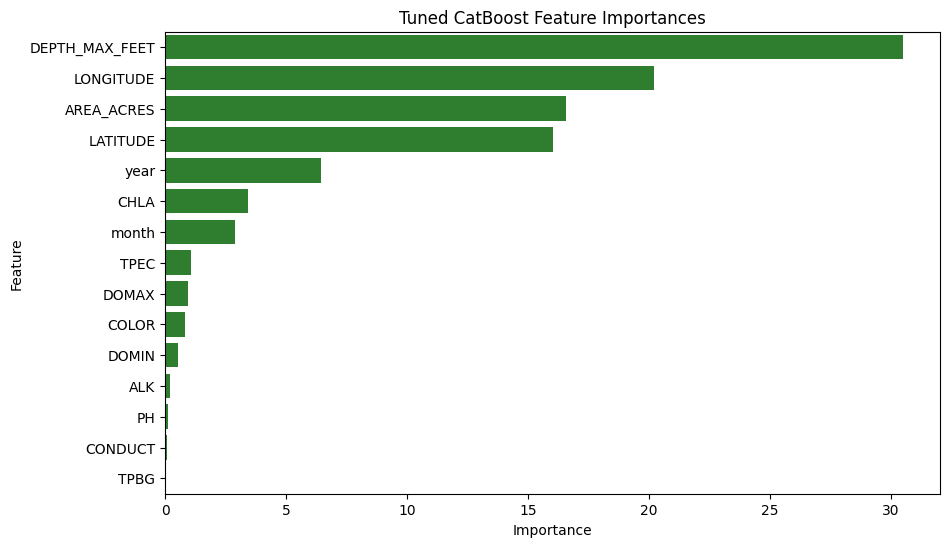
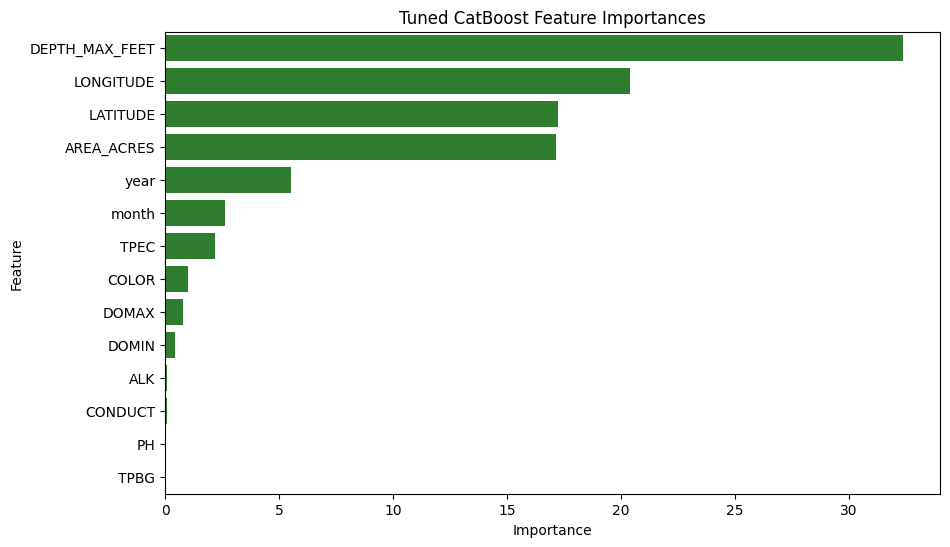
Exclude CHLA & enable multithreading for CatBoost

diff --git a/experiments/scripts/33_catboost_chemical.py b/experiments/scripts/33_catboost_chemical.py
@@ -47,7 +47,7 @@ def main():
     df["month"] = df["SAMPDATE"].dt.month
     base_features = ["year", "month"] + num_cols
 
-    chem_features = ["DOMAX", "DOMIN", "TPEC", "TPBG", "CHLA", "PH", "COLOR", "CONDUCT", "ALK"]
+    chem_features = ["DOMAX", "DOMIN", "TPEC", "TPBG", "PH", "COLOR", "CONDUCT", "ALK"]
     valid_chems = [c for c in chem_features if c in df.columns]
 
     subset_cols = [target, "SAMPDATE", "MIDAS"] + num_cols
@@ -80,7 +80,7 @@ def main():
         loss_function="RMSE",
         verbose=False,
         allow_writing_files=False,
-        thread_count=1,
+        thread_count=-1,
     )
     model.fit(X_train, y_train)
 
@@ -127,7 +127,7 @@ def main():
                 loss_function="RMSE",
                 verbose=False,
                 allow_writing_files=False,
-                thread_count=1,
+                thread_count=-1,
             )
             cat_lolo.fit(train_lake_df[features], train_lake_df[target])
 
@@ -165,10 +165,10 @@ def main():
     sections = [
         (
             "What We Did (Methodology)",
-            "Following Experiments 20 and 21, we deployed **CatBoost** on the identical chemistry-enriched setup. "
+            "We deployed **CatBoost** on the same chemistry set used in the later non-CHLA experiments. "
             "Like the other boosted-tree baselines, CatBoost can retain rows with missing chemistry instead of forcing "
             "global imputation or row deletion. This lets us preserve the same broad geographic-temporal training base "
-            "while still testing whether chemistry helps when present.\n\n"
+            "while still testing whether chemistry helps when present, while explicitly excluding `CHLA`.\n\n"
             f"We loaded the baseline geographic limits and the chemical subset: `{valid_chems}`. By preserving native missingness, "
             f"CatBoost trained on **{len(model_df):,}** usable rows."
         ),

diff --git a/experiments/scripts/34_catboost_tuned.py b/experiments/scripts/34_catboost_tuned.py
@@ -48,7 +48,7 @@ def main():
     df["year"] = df["SAMPDATE"].dt.year
     df["month"] = df["SAMPDATE"].dt.month
     base_features = ["year", "month"] + num_cols
-    chem_features = ["DOMAX", "DOMIN", "TPEC", "TPBG", "CHLA", "PH", "COLOR", "CONDUCT", "ALK"]
+    chem_features = ["DOMAX", "DOMIN", "TPEC", "TPBG", "PH", "COLOR", "CONDUCT", "ALK"]
     valid_chems = [c for c in chem_features if c in df.columns]
 
     subset_cols = [target, "SAMPDATE", "MIDAS"] + num_cols
@@ -98,7 +98,7 @@ def main():
             "eval_metric": "RMSE",
             "verbose": False,
             "allow_writing_files": False,
-            "thread_count": 1,
+            "thread_count": -1,
         }
         model = CatBoostRegressor(**params)
         model.fit(X_tune_train, y_tune_train)
@@ -130,7 +130,7 @@ def main():
         "eval_metric": "RMSE",
         "verbose": False,
         "allow_writing_files": False,
-        "thread_count": 1,
+        "thread_count": -1,
     }
 
     print("\nRefitting tuned CatBoost on the full chronological training window...")
@@ -162,13 +162,13 @@ def main():
     sections = [
         (
             'What We Did (Methodology)',
-            'We kept the same native-missingness CatBoost setup introduced in Experiment 33, but added a chronological hyperparameter search inside the training window. '
+            'We kept the same native-missingness CatBoost setup introduced in Experiment 33, but excluded CHLA from the chemistry inputs before tuning because it provides an overly direct proxy for water clarity. We then added a chronological hyperparameter search inside the training window. '
             'The first 80% of rows remained the outer training slice and the latest 20% remained the untouched test slice. '
             'Inside the outer training slice, we used an 80/20 inner chronological split for tuning so parameter selection did not use the final test period.'
         ),
         (
             'Hyperparameter Search Setup',
-            f"Feature set: {features}\n\n"
+            f"Feature set (CHLA excluded): {features}\n\n"
             'Search grid: '
             f"iterations={param_grid['iterations']}, depth={param_grid['depth']}, learning_rate={param_grid['learning_rate']}, l2_leaf_reg={param_grid['l2_leaf_reg']}\n\n"
             f"Total combinations evaluated: {len(combos)}\n\n"

diff --git a/reports/34_catboost_tuned.md b/reports/34_catboost_tuned.md
@@ -2,64 +2,63 @@
 
 ## What We Did (Methodology)
 
-We kept the same native-missingness CatBoost setup introduced in Experiment 33, but added a chronological hyperparameter search inside the training window. The first 80% of rows remained the outer training slice and the latest 20% remained the untouched test slice. Inside the outer training slice, we used an 80/20 inner chronological split for tuning so parameter selection did not use the final test period.
+We kept the same native-missingness CatBoost setup introduced in Experiment 33, but excluded CHLA from the chemistry inputs before tuning because it provides an overly direct proxy for water clarity. We then added a chronological hyperparameter search inside the training window. The first 80% of rows remained the outer training slice and the latest 20% remained the untouched test slice. Inside the outer training slice, we used an 80/20 inner chronological split for tuning so parameter selection did not use the final test period.
 
 ## Hyperparameter Search Setup
 
-Feature set: ['year', 'month', 'LATITUDE', 'LONGITUDE', 'AREA_ACRES', 'DEPTH_MAX_FEET', 'DOMAX', 'DOMIN', 'TPEC', 'TPBG', 'CHLA', 'PH', 'COLOR', 'CONDUCT', 'ALK']
+Feature set (CHLA excluded): ['year', 'month', 'LATITUDE', 'LONGITUDE', 'AREA_ACRES', 'DEPTH_MAX_FEET', 'DOMAX', 'DOMIN', 'TPEC', 'TPBG', 'PH', 'COLOR', 'CONDUCT', 'ALK']
 
 Search grid: iterations=[200, 400, 700], depth=[6, 8, 10], learning_rate=[0.03, 0.05, 0.1], l2_leaf_reg=[3, 7, 11]
 
 Total combinations evaluated: 81
 
-Best configuration: {'iterations': 700, 'depth': 10, 'learning_rate': 0.1, 'l2_leaf_reg': 3, 'random_seed': 42, 'loss_function': 'RMSE', 'eval_metric': 'RMSE', 'verbose': False, 'allow_writing_files': False, 'thread_count': 1}
+Best configuration: {'iterations': 700, 'depth': 10, 'learning_rate': 0.05, 'l2_leaf_reg': 3, 'random_seed': 42, 'loss_function': 'RMSE', 'eval_metric': 'RMSE', 'verbose': False, 'allow_writing_files': False, 'thread_count': -1}
 
 ## Chronological Test Results
 
-- **R-Squared (R²):** 0.7410
-- **Mean Absolute Error (MAE):** 0.7918 meters
-- **Root Mean Squared Error (RMSE):** 1.0727 meters
-- **Normalized MAE:** 0.0189
-- **Normalized RMSE:** 0.0281
+- **R-Squared (R²):** 0.7324
+- **Mean Absolute Error (MAE):** 0.8122 meters
+- **Root Mean Squared Error (RMSE):** 1.0903 meters
+- **Normalized MAE:** 0.0194
+- **Normalized RMSE:** 0.0289
 
 ## Search Summary
 
 | iterations | depth | learning_rate | l2_leaf_reg | random_seed | loss_function | eval_metric | verbose | allow_writing_files | thread_count | val_R2 | val_MAE | val_RMSE | val_MAE_Norm |
 | --- | --- | --- | --- | --- | --- | --- | --- | --- | --- | --- | --- | --- | --- |
-| 700 | 10 | 0.1 | 3 | 42 | RMSE | RMSE | False | False | 1 | 0.782 | 0.721 | 0.969 | 0.017 |
-| 400 | 10 | 0.1 | 3 | 42 | RMSE | RMSE | False | False | 1 | 0.782 | 0.724 | 0.97 | 0.017 |
-| 700 | 10 | 0.1 | 11 | 42 | RMSE | RMSE | False | False | 1 | 0.781 | 0.724 | 0.973 | 0.017 |
-| 700 | 10 | 0.1 | 7 | 42 | RMSE | RMSE | False | False | 1 | 0.781 | 0.724 | 0.973 | 0.017 |
-| 700 | 10 | 0.05 | 3 | 42 | RMSE | RMSE | False | False | 1 | 0.78 | 0.727 | 0.974 | 0.017 |
-| 400 | 10 | 0.1 | 11 | 42 | RMSE | RMSE | False | False | 1 | 0.78 | 0.729 | 0.975 | 0.017 |
-| 400 | 10 | 0.1 | 7 | 42 | RMSE | RMSE | False | False | 1 | 0.779 | 0.73 | 0.976 | 0.017 |
-| 700 | 10 | 0.05 | 11 | 42 | RMSE | RMSE | False | False | 1 | 0.779 | 0.732 | 0.977 | 0.017 |
-| 700 | 10 | 0.05 | 7 | 42 | RMSE | RMSE | False | False | 1 | 0.778 | 0.732 | 0.98 | 0.017 |
-| 700 | 8 | 0.1 | 7 | 42 | RMSE | RMSE | False | False | 1 | 0.776 | 0.734 | 0.982 | 0.017 |
-| 700 | 8 | 0.1 | 11 | 42 | RMSE | RMSE | False | False | 1 | 0.775 | 0.736 | 0.986 | 0.017 |
-| 700 | 8 | 0.1 | 3 | 42 | RMSE | RMSE | False | False | 1 | 0.775 | 0.734 | 0.986 | 0.017 |
-| 200 | 10 | 0.1 | 3 | 42 | RMSE | RMSE | False | False | 1 | 0.775 | 0.742 | 0.986 | 0.017 |
-| 400 | 10 | 0.05 | 3 | 42 | RMSE | RMSE | False | False | 1 | 0.774 | 0.743 | 0.988 | 0.017 |
-| 400 | 8 | 0.1 | 7 | 42 | RMSE | RMSE | False | False | 1 | 0.774 | 0.745 | 0.989 | 0.018 |
+| 700 | 10 | 0.05 | 3 | 42 | RMSE | RMSE | False | False | -1 | 0.773 | 0.744 | 0.991 | 0.017 |
+| 700 | 10 | 0.05 | 7 | 42 | RMSE | RMSE | False | False | -1 | 0.771 | 0.746 | 0.994 | 0.018 |
+| 700 | 10 | 0.1 | 11 | 42 | RMSE | RMSE | False | False | -1 | 0.771 | 0.744 | 0.994 | 0.017 |
+| 400 | 10 | 0.1 | 11 | 42 | RMSE | RMSE | False | False | -1 | 0.77 | 0.747 | 0.996 | 0.018 |
+| 700 | 8 | 0.1 | 3 | 42 | RMSE | RMSE | False | False | -1 | 0.768 | 0.75 | 1.0 | 0.018 |
+| 700 | 10 | 0.05 | 11 | 42 | RMSE | RMSE | False | False | -1 | 0.768 | 0.75 | 1.0 | 0.018 |
+| 400 | 10 | 0.1 | 3 | 42 | RMSE | RMSE | False | False | -1 | 0.768 | 0.748 | 1.0 | 0.018 |
+| 700 | 10 | 0.1 | 7 | 42 | RMSE | RMSE | False | False | -1 | 0.768 | 0.745 | 1.0 | 0.017 |
+| 400 | 10 | 0.1 | 7 | 42 | RMSE | RMSE | False | False | -1 | 0.768 | 0.75 | 1.001 | 0.018 |
+| 400 | 10 | 0.05 | 3 | 42 | RMSE | RMSE | False | False | -1 | 0.767 | 0.758 | 1.003 | 0.018 |
+| 700 | 10 | 0.1 | 3 | 42 | RMSE | RMSE | False | False | -1 | 0.766 | 0.747 | 1.004 | 0.017 |
+| 700 | 8 | 0.1 | 7 | 42 | RMSE | RMSE | False | False | -1 | 0.766 | 0.751 | 1.005 | 0.018 |
+| 400 | 10 | 0.05 | 7 | 42 | RMSE | RMSE | False | False | -1 | 0.766 | 0.761 | 1.006 | 0.018 |
+| 700 | 8 | 0.1 | 11 | 42 | RMSE | RMSE | False | False | -1 | 0.765 | 0.755 | 1.008 | 0.018 |
+| 400 | 8 | 0.1 | 3 | 42 | RMSE | RMSE | False | False | -1 | 0.764 | 0.761 | 1.009 | 0.018 |
 
 ![CatBoost Tuning Search](34_catboost_tuning_search.png)
 
 | Feature | Importance |
 | --- | --- |
-| DEPTH_MAX_FEET | 30.514 |
-| LONGITUDE | 20.206 |
-| AREA_ACRES | 16.591 |
-| LATITUDE | 16.055 |
-| year | 6.446 |
-| CHLA | 3.434 |
-| month | 2.873 |
-| TPEC | 1.077 |
-| DOMAX | 0.966 |
-| COLOR | 0.808 |
-| DOMIN | 0.554 |
-| ALK | 0.206 |
-| PH | 0.142 |
-| CONDUCT | 0.066 |
-| TPBG | 0.061 |
+| DEPTH_MAX_FEET | 32.39 |
+| LONGITUDE | 20.394 |
+| LATITUDE | 17.234 |
+| AREA_ACRES | 17.16 |
+| year | 5.516 |
+| month | 2.649 |
+| TPEC | 2.206 |
+| COLOR | 0.999 |
+| DOMAX | 0.78 |
+| DOMIN | 0.43 |
+| ALK | 0.092 |
+| CONDUCT | 0.065 |
+| PH | 0.055 |
+| TPBG | 0.033 |
 
 ![Tuned CatBoost Importances](34_catboost_tuned_importances.png)

diff --git a/reports/33_catboost_chemical.md b/reports/33_catboost_chemical.md
@@ -2,19 +2,19 @@
 
 ## What We Did (Methodology)
 
-Following Experiments 20 and 21, we deployed **CatBoost** on the identical chemistry-enriched setup. Like the other boosted-tree baselines, CatBoost can retain rows with missing chemistry instead of forcing global imputation or row deletion. This lets us preserve the same broad geographic-temporal training base while still testing whether chemistry helps when present.
+We deployed **CatBoost** on the same chemistry set used in the later non-CHLA experiments. Like the other boosted-tree baselines, CatBoost can retain rows with missing chemistry instead of forcing global imputation or row deletion. This lets us preserve the same broad geographic-temporal training base while still testing whether chemistry helps when present, while explicitly excluding `CHLA`.
 
-We loaded the baseline geographic limits and the chemical subset: `['DOMAX', 'DOMIN', 'TPEC', 'TPBG', 'CHLA', 'PH', 'COLOR', 'CONDUCT', 'ALK']`. By preserving native missingness, CatBoost trained on **154,304** usable rows.
+We loaded the baseline geographic limits and the chemical subset: `['DOMAX', 'DOMIN', 'TPEC', 'TPBG', 'PH', 'COLOR', 'CONDUCT', 'ALK']`. By preserving native missingness, CatBoost trained on **154,304** usable rows.
 
 ## 80/20 Chronological Results
 
 Predicting strictly out-of-time (the latest 20% temporal split) yielded:
 
-- **R-Squared (R²):** 0.7280
-- **Mean Absolute Error (MAE):** 0.8180 meters
-- **Root Mean Squared Error (RMSE):** 1.0992 meters
-- **Normalized MAE:** 0.0197
-- **Normalized RMSE:** 0.0296
+- **R-Squared (R²):** 0.7131
+- **Mean Absolute Error (MAE):** 0.8483 meters
+- **Root Mean Squared Error (RMSE):** 1.1289 meters
+- **Normalized MAE:** 0.0203
+- **Normalized RMSE:** 0.0299
 
 ## Predicting Completely Unseen Lakes (LOLO)
 
@@ -22,18 +22,18 @@ We evaluated CatBoost on the same seeded 10 target lake IDs used by the XGBoost 
 
 | MIDAS | pct_missing_overall | n_obs | R2 | MAE | MAE_Norm |
 | --- | --- | --- | --- | --- | --- |
-| c0157 | 0.952 | 117 | -27.644 | 1.079 | 0.064 |
-| c3420 | 0.606 | 610 | -5.053 | 1.968 | 0.027 |
-| c3814 | 0.596 | 1073 | 0.111 | 1.477 | 0.053 |
-| c3180 | 0.91 | 80 | -0.191 | 0.922 | 0.021 |
-| c0224 | 0.968 | 390 | -5.959 | 5.176 | 0.026 |
-| c3448 | 0.399 | 427 | -1.436 | 1.262 | 0.026 |
-| c5242 | 0.664 | 451 | -0.244 | 0.701 | 0.025 |
-| c3712 | 0.71 | 579 | 0.006 | 0.58 | 0.015 |
-| c2222 | 0.91 | 80 | -1.8 | 0.948 | 0.05 |
-| c3132 | 0.608 | 628 | -0.046 | 0.508 | 0.009 |
+| c0157 | 0.952 | 117 | -2.43 | 0.333 | 0.02 |
+| c3420 | 0.606 | 610 | -2.204 | 1.378 | 0.019 |
+| c3814 | 0.596 | 1073 | -0.047 | 1.622 | 0.058 |
+| c3180 | 0.91 | 80 | 0.237 | 0.691 | 0.016 |
+| c0224 | 0.968 | 390 | -9.943 | 6.61 | 0.033 |
+| c3448 | 0.399 | 427 | 0.171 | 0.661 | 0.014 |
+| c5242 | 0.664 | 451 | 0.102 | 0.592 | 0.021 |
+| c3712 | 0.71 | 579 | -0.308 | 0.7 | 0.018 |
+| c2222 | 0.91 | 80 | 0.208 | 0.43 | 0.023 |
+| c3132 | 0.608 | 628 | -0.362 | 0.619 | 0.01 |
 
-**CatBoost Average LOLO $R^2$:** -4.2258
+**CatBoost Average LOLO $R^2$:** -1.4574
 
 ## Feature Importances
 
@@ -41,20 +41,19 @@ Measured using CatBoost's native feature importance scores after training with m
 
 | Feature | Importance |
 | --- | --- |
-| DEPTH_MAX_FEET | 27.568 |
-| LONGITUDE | 21.347 |
-| AREA_ACRES | 17.757 |
-| LATITUDE | 17.566 |
-| year | 6.413 |
-| CHLA | 3.509 |
-| month | 2.713 |
-| TPEC | 0.76 |
-| DOMAX | 0.738 |
-| COLOR | 0.64 |
-| DOMIN | 0.5 |
-| ALK | 0.366 |
-| CONDUCT | 0.06 |
-| PH | 0.046 |
-| TPBG | 0.018 |
+| DEPTH_MAX_FEET | 33.014 |
+| LONGITUDE | 19.692 |
+| LATITUDE | 16.839 |
+| AREA_ACRES | 16.273 |
+| year | 6.006 |
+| month | 2.915 |
+| TPEC | 2.789 |
+| DOMAX | 0.863 |
+| COLOR | 0.819 |
+| DOMIN | 0.502 |
+| ALK | 0.148 |
+| PH | 0.06 |
+| TPBG | 0.045 |
+| CONDUCT | 0.036 |
 
 ![CatBoost Importances](33_catboost_importances.png)